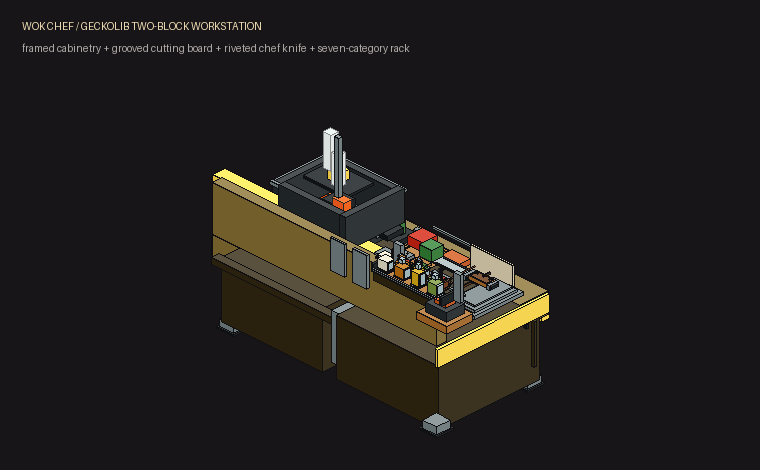
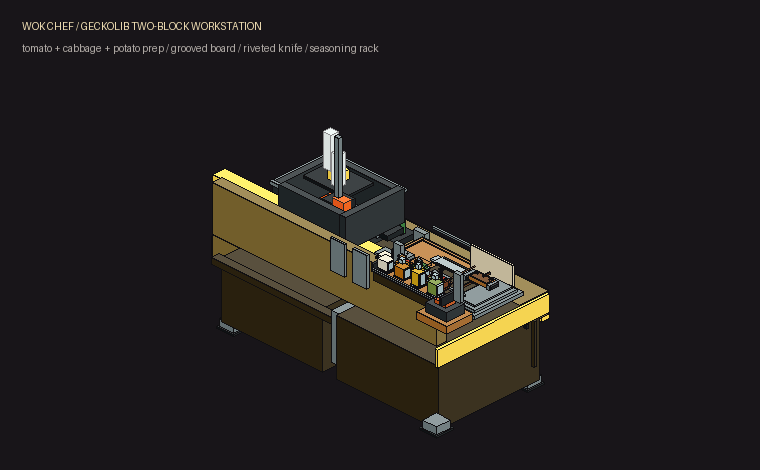
feat(chef): 案板使用真实食材图标

Changed region(s): [[0.0303, 0.0894, 0.5447, 0.1191], [0.5145, 0.4766, 0.6355, 0.566]]

diff --git a/src/main/java/com/miningdim/job/chef/client/SeasoningTableGeoRenderer.java b/src/main/java/com/miningdim/job/chef/client/SeasoningTableGeoRenderer.java
@@ -6,16 +6,23 @@ import com.miningdim.job.chef.SeasoningTableBlock;
 import com.miningdim.job.chef.SeasoningTableBlockEntity;
 import com.mojang.blaze3d.vertex.PoseStack;
 import com.mojang.blaze3d.vertex.VertexConsumer;
+import com.mojang.math.Axis;
+import net.minecraft.client.Minecraft;
 import net.minecraft.client.renderer.LightTexture;
 import net.minecraft.client.renderer.MultiBufferSource;
 import net.minecraft.client.renderer.RenderType;
 import net.minecraft.client.renderer.blockentity.BlockEntityRendererProvider;
 import net.minecraft.core.Direction;
 import net.minecraft.resources.ResourceLocation;
+import net.minecraft.world.item.Item;
+import net.minecraft.world.item.ItemDisplayContext;
+import net.minecraft.world.item.ItemStack;
+import net.minecraft.world.item.Items;
 import net.minecraftforge.api.distmarker.Dist;
 import net.minecraftforge.client.event.EntityRenderersEvent;
 import net.minecraftforge.eventbus.api.SubscribeEvent;
 import net.minecraftforge.fml.common.Mod;
+import net.minecraftforge.registries.ForgeRegistries;
 import software.bernie.geckolib.cache.object.BakedGeoModel;
 import software.bernie.geckolib.cache.object.GeoBone;
 import software.bernie.geckolib.model.GeoModel;
@@ -34,6 +41,10 @@ public final class SeasoningTableGeoRenderer {
     }
 
     private static final class Renderer extends GeoBlockRenderer<SeasoningTableBlockEntity> {
+
+        private static final ItemStack TOMATO = icon("farmersdelight", "tomato");
+        private static final ItemStack CABBAGE = icon("farmersdelight", "cabbage");
+        private static final ItemStack POTATO = new ItemStack(Items.POTATO);
 
         private Renderer(BlockEntityRendererProvider.Context context) {
             super(new Model());
@@ -60,6 +71,44 @@ public final class SeasoningTableGeoRenderer {
             int boneLight = bone.getName().startsWith("fire_") ? LightTexture.FULL_BRIGHT : packedLight;
             super.renderRecursively(poseStack, table, bone, renderType, bufferSource, buffer,
                     isReRender, partialTick, boneLight, packedOverlay, red, green, blue, alpha);
+        }
+
+        @Override
+        public void postRender(PoseStack poseStack, SeasoningTableBlockEntity table, BakedGeoModel model,
+                               MultiBufferSource bufferSource, VertexConsumer buffer, boolean isReRender,
+                               float partialTick, int packedLight, int packedOverlay,
+                               float red, float green, float blue, float alpha) {
+            if (isReRender) {
+                return;
+            }
+            renderPrepIcon(poseStack, table, bufferSource, TOMATO,
+                    1.55F, -4.45F, -12.0F, 0.34F, packedLight, packedOverlay, 1);
+            renderPrepIcon(poseStack, table, bufferSource, CABBAGE,
+                    4.0F, -3.4F, 8.0F, 0.37F, packedLight, packedOverlay, 2);
+            renderPrepIcon(poseStack, table, bufferSource, POTATO,
+                    6.45F, -4.25F, -18.0F, 0.33F, packedLight, packedOverlay, 3);
+        }
+
+        private static void renderPrepIcon(PoseStack poseStack, SeasoningTableBlockEntity table,
+                                           MultiBufferSource bufferSource, ItemStack stack,
+                                           float modelX, float modelZ, float yaw, float scale,
+                                           int packedLight, int packedOverlay, int seed) {
+            if (stack.isEmpty()) {
+                return;
+            }
+            poseStack.pushPose();
+            poseStack.translate(modelX / 16.0F, 12.08F / 16.0F, modelZ / 16.0F);
+            poseStack.mulPose(Axis.YP.rotationDegrees(yaw));
+            poseStack.mulPose(Axis.XP.rotationDegrees(90.0F));
+            poseStack.scale(scale, scale, scale);
+            Minecraft.getInstance().getItemRenderer().renderStatic(stack, ItemDisplayContext.FIXED,
+                    packedLight, packedOverlay, poseStack, bufferSource, table.getLevel(), seed);
+            poseStack.popPose();
+        }
+
+        private static ItemStack icon(String namespace, String path) {
+            Item item = ForgeRegistries.ITEMS.getValue(new ResourceLocation(namespace, path));
+            return item == null || item == Items.AIR ? ItemStack.EMPTY : new ItemStack(item);
         }
     }
 

diff --git a/tools/generate_chef_gecko_assets.py b/tools/generate_chef_gecko_assets.py
@@ -221,9 +221,6 @@ def workstation_bones() -> list[dict[str, Any]]:
              pivot=(3.54, 11.96, -2.42), rotation=(0, 31, 0)),
         cube((0.42, 10.94, -5.35), (1.2, 0.16, 1.1), "board_dark"),
         cube((8.38, 10.94, 0.25), (1.2, 0.16, 1.1), "board_dark"),
-        cube((0.5, 11.96, -5.5), (2.1, 1.2, 2.1), "red"),
-        cube((3.1, 11.96, -4.2), (1.7, 1.5, 1.7), "green"),
-        cube((5.2, 11.96, -5.1), (2.6, 0.7, 2), "food"),
         cube((10.7, 11, -5.5), (4.2, 0.45, 7), "metal"),
         cube((11.1, 11.45, -5.1), (3.4, 0.35, 6.2), "metal"),
         cube((11.5, 11.8, -4.7), (2.6, 0.3, 5.4), "metal"),
@@ -624,7 +621,7 @@ def build_preview(path: Path, bones: list[dict[str, Any]], palette: tuple[tuple[
         draw.polygon(front, fill=shade(-28), outline=(16, 15, 17, alpha))
         draw.polygon(top, fill=shade(20), outline=(16, 15, 17, alpha))
     draw.text((22, 20), "WOK CHEF / GECKOLIB TWO-BLOCK WORKSTATION", fill=(242, 224, 180, 255))
-    draw.text((22, 42), "framed cabinetry + grooved cutting board + riveted chef knife + seven-category rack",
+    draw.text((22, 42), "tomato + cabbage + potato prep / grooved board / riveted knife / seasoning rack",
               fill=(178, 172, 167, 255))
     image.save(path, optimize=True)
 
